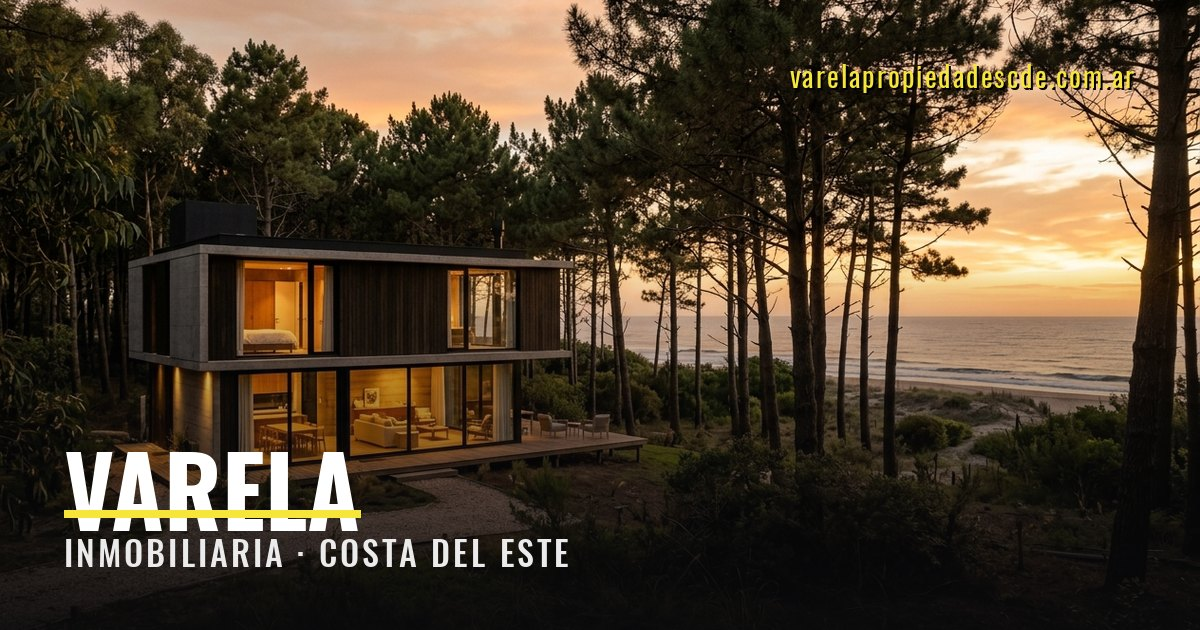
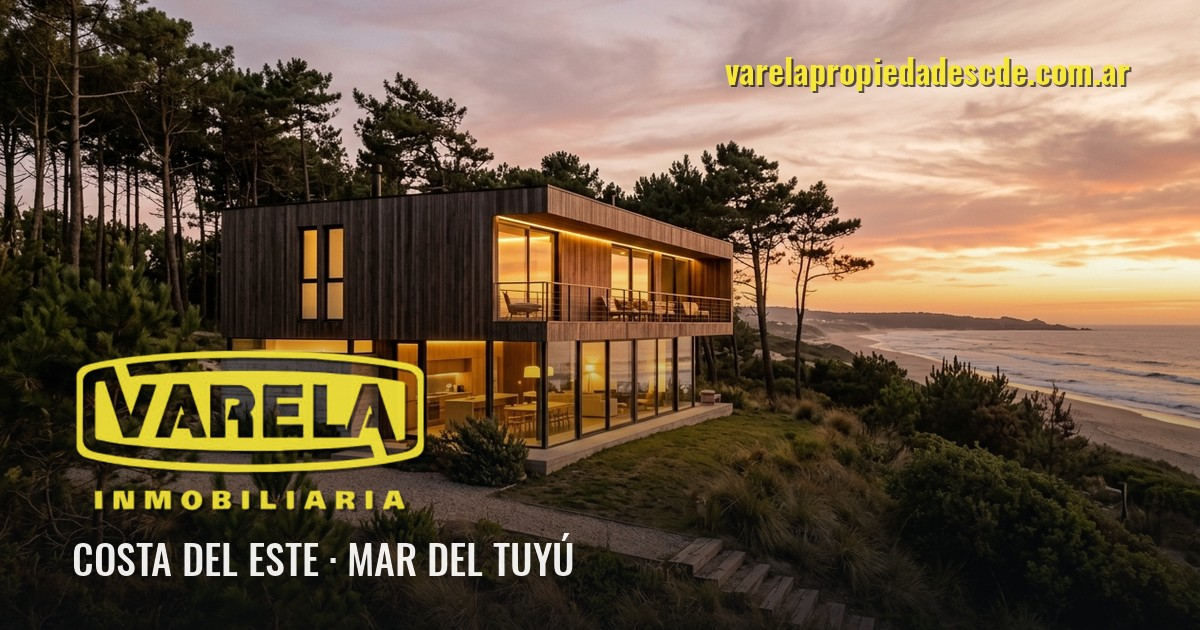
auto-commit for 5c6fd5ee-14c3-447f-b168-25e7bab3d99f

diff --git a/backend/make_og_cover.py b/backend/make_og_cover.py
@@ -1,0 +1,80 @@
+"""Genera la portada OpenGraph (1200x630) para varelapropiedadescde.com.ar
+con el logo VARELA original (escudo/óvalo) en amarillo de marca."""
+import os
+
+from PIL import Image, ImageDraw, ImageFont
+
+_ASSETS = os.path.dirname(__file__)
+_LOGO = os.path.join(_ASSETS, "assets", "brand", "varela-logo.png")
+_FONT_B = os.path.join(_ASSETS, "assets", "fonts", "Oswald-Bold.ttf")
+_FONT_M = os.path.join(_ASSETS, "assets", "fonts", "Oswald-Medium.ttf")
+
+_ACCENT = (246, 230, 58)  # amarillo de marca #F6E63A
+_W, _H = 1200, 630
+_BG_SRC = "/tmp/og_bg.jpg"
+_OUT = os.path.join(_ASSETS, "..", "frontend", "public", "og-cover.jpg")
+
+
+def _cover_fit(img, w, h):
+    scale = max(w / img.width, h / img.height)
+    nw, nh = int(img.width * scale), int(img.height * scale)
+    img = img.resize((nw, nh), Image.LANCZOS)
+    left, top = (nw - w) // 2, (nh - h) // 2
+    return img.crop((left, top, left + w, top + h))
+
+
+def _yellow_logo(target_w):
+    logo = Image.open(_LOGO).convert("RGBA")
+    alpha = logo.getchannel("A")
+    yellow = Image.new("RGBA", logo.size, _ACCENT + (0,))
+    yellow.putalpha(alpha)
+    ratio = target_w / yellow.width
+    return yellow.resize((target_w, int(yellow.height * ratio)), Image.LANCZOS)
+
+
+def main():
+    base = _cover_fit(Image.open(_BG_SRC).convert("RGB"), _W, _H).convert("RGBA")
+    overlay = Image.new("RGBA", (_W, _H), (0, 0, 0, 0))
+    draw = ImageDraw.Draw(overlay)
+
+    # Degradado oscuro abajo-izquierda para legibilidad del logo.
+    grad = Image.new("L", (1, _H), 0)
+    for y in range(_H):
+        t = y / _H
+        grad.putpixel((0, y), int(200 * max(0, (t - 0.35) / 0.65) ** 1.4))
+    grad = grad.resize((_W, _H))
+    shade = Image.new("RGBA", (_W, _H), (10, 12, 14, 0))
+    shade.putalpha(grad)
+    overlay = Image.alpha_composite(overlay, shade)
+    draw = ImageDraw.Draw(overlay)
+
+    # Logo VARELA amarillo (original), abajo a la izquierda.
+    margin = 70
+    logo = _yellow_logo(int(_W * 0.30))
+    logo_y = _H - margin - logo.height - 44
+    # sombra sutil
+    shadow = Image.new("RGBA", logo.size, (0, 0, 0, 0))
+    shadow.putalpha(logo.getchannel("A").point(lambda a: int(a * 0.5)))
+    overlay.alpha_composite(shadow, (margin + 3, logo_y + 3))
+    overlay.alpha_composite(logo, (margin, logo_y))
+
+    # Tagline debajo del logo.
+    f_tag = ImageFont.truetype(_FONT_M, 40)
+    tag = "COSTA DEL ESTE · MAR DEL TUYÚ"
+    draw.text((margin + 2, logo_y + logo.height + 12), tag, font=f_tag, fill=(255, 255, 255, 235))
+
+    # URL arriba a la derecha (con sombra para legibilidad sobre el cielo).
+    f_url = ImageFont.truetype(_FONT_B, 34)
+    url = "varelapropiedadescde.com.ar"
+    uw = draw.textlength(url, font=f_url)
+    ux, uy = _W - uw - margin, 44
+    draw.text((ux + 2, uy + 2), url, font=f_url, fill=(0, 0, 0, 160))
+    draw.text((ux, uy), url, font=f_url, fill=_ACCENT + (255,))
+
+    result = Image.alpha_composite(base, overlay).convert("RGB")
+    result.save(os.path.abspath(_OUT), "JPEG", quality=90)
+    print("saved:", os.path.abspath(_OUT), result.size)
+
+
+if __name__ == "__main__":
+    main()
